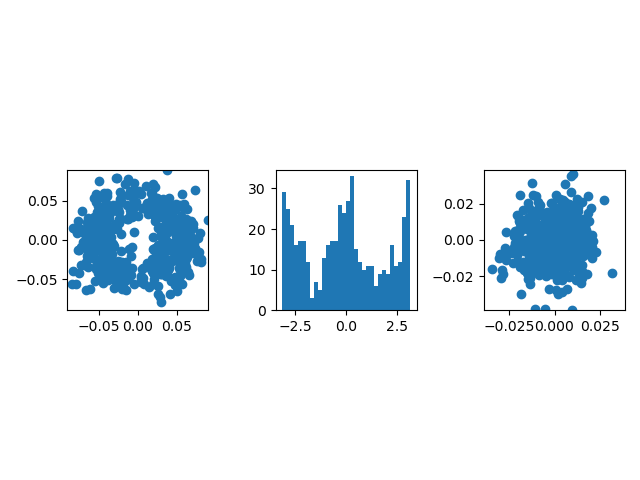
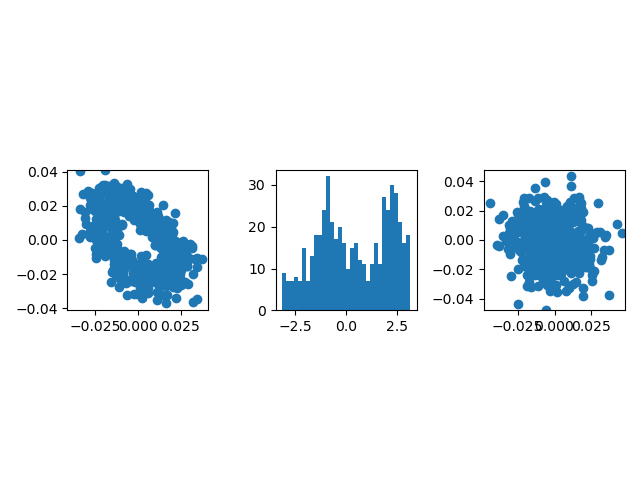
testing heuristic approach

diff --git a/geo_init_heuristic/geometric_initialization.py b/geo_init_heuristic/geometric_initialization.py
@@ -21,7 +21,13 @@ class GeometricInit3x3(Initializer):
         self.std_init = None
 
         self.antisym_dist = None
-        
+        self.var_rf2 = None
+
+        self.var_ra2 = None
+        self.var_ra = None
+
+        self.var_rs2 = None
+        self.var_rs = None
 
         #np.random.seed(self.seed)
         tf.random.set_seed(self.seed)
@@ -31,13 +37,16 @@ class GeometricInit3x3(Initializer):
 
         # Make distribution have unit variance
         dist = dist/tf.expand_dims(tf.math.sqrt(tfp.stats.variance(dist, -1)), -1)
-        
+        #print("unit var dist shape :", dist.shape)
         e_vals, e_vec = tf.linalg.eigh(cov)
         e_vals = tf.linalg.diag(e_vals)
+        #print("e_vals shape:", e_vals.shape)
+        #print("e_vec shape:", e_vec.shape)
 
         new_dist = e_vec @ e_vals**(1/2) @ dist
          
-        new_dist =  tf.reshape(new_dist, (1, 2, self.channels, self.filters))
+        #new_dist =  tf.reshape(new_dist, (-1, 2, self.channels, self.filters))
+
         #print(self.channels, self.filters)
         return new_dist
 
@@ -51,25 +60,18 @@ class GeometricInit3x3(Initializer):
         cov = tf.cast(tf.reshape(cov, (2,2)), tf.dtypes.float32)
         dist = self._color(self.antisym_dist, cov)
 
-        x = dist[:, 0, :, :]
-        y = dist[:, 1, :, :]
+        x = dist[:, 0, :]
+        y = dist[:, 1, :]
 
-        var_rf2 = 18*self.std_init**4
+        self.var_rf2 = 18*self.std_init**4
 
-        var_ra2 = tfp.stats.variance(x**2 + y**2, None)
-        var_ra = tfp.stats.variance(tf.math.sqrt(x**2 + y**2), None)
+        self.var_ra2 = tfp.stats.variance(x**2 + y**2, None)
+        self.var_ra = tfp.stats.variance(tf.math.sqrt(x**2 + y**2), None)
 
-        var_rs2 = var_rf2-var_ra2
-        var_rs = (var_rs2/6.0)**0.5 * (3-8/m.pi)
+        self.var_rs2 = self.var_rf2-self.var_ra2
+        self.var_rs = (self.var_rs2/6.0)**0.5 * (3-8/m.pi)
         #print(var_ra2, var_rs2)
-        return 6*var_x + (3-8/m.pi)*var_rs - 1/self.channels
-
-    '''def _secant_method(self, ra, ta, rs, rf,):
-
-
-        cov = tf.stack([var_x, self.rho*tf.math.sqrt(var_x*var_y),      
-                        self.rho*tf.math.sqrt(var_x*var_y),  var_y ])'''
-        
+        return 6*var_x + (3-8/m.pi)*self.var_rs - 1/self.channels
 
 
     def __call__(self, shape, dtype=None, **kwargs):
@@ -77,7 +79,7 @@ class GeometricInit3x3(Initializer):
         self.filters = int(shape[-1])
         self.k = shape[0]        
         self.n_avg = (self.channels+self.filters)/2.0
-        self.rho = 0.5
+        self.rho = 0.3
 
         self.std_init = tf.math.sqrt(2/(self.channels*self.k**2))  #He
 
@@ -85,22 +87,22 @@ class GeometricInit3x3(Initializer):
         p = tf.cast(self.rho, dtype=tf.float32)
 
 
-        #Anti-symetric 
-        t = tfp.distributions.Uniform(0, 2*np.pi).sample(sample_shape=(1,self.channels, self.filters))
-        r = tfp.distributions.Chi(8).sample(sample_shape=(1,self.channels, self.filters))
+        #Anti-symetric initialization
+        t = tfp.distributions.Uniform(0, 2*np.pi).sample(sample_shape=(1,self.channels, self.filters), seed=self.seed)
+        r = tfp.distributions.Chi(8).sample(sample_shape=(1,self.channels, self.filters), seed=self.seed)
         x = r*tf.math.cos(t)
         y = r*tf.math.sin(t) 
 
         self.antisym_dist  = tf.stack([x, y], axis=1)
-        self.antisym_dist =  tf.reshape(self.antisym_dist, (2, self.channels*self.filters))
+        #print("anti sym orig shape:", self.antisym_dist.shape)
 
-        var_x = tfp.math.find_root_chandrupatla(objective_fn=self._objective, low = [0], high=[1/self.channels])[0]
+        self.antisym_dist =  tf.reshape(self.antisym_dist, (-1, 2, self.channels*self.filters))
 
-        print("Var_x : ", var_x)
+        var_x = tfp.math.find_root_chandrupatla(objective_fn=self._objective, low = [0], high=[1/n])[0]
 
-        theta = 2*np.pi*tf.math.ceil(tfp.distributions.Uniform(low=0, high=360).sample(sample_shape=(self.filters), seed=self.seed) )/360
+        #print("Var_x : ", var_x)
 
-
+        theta = 2*np.pi*tf.math.ceil(tfp.distributions.Uniform(low=0, high=8).sample(sample_shape=(self.filters), seed=self.seed) )/8
 
 
         #theta = tfp.distributions.Uniform(low=0, high=2*m.pi).sample(sample_shape=(self.filters), seed=self.seed)    
@@ -110,27 +112,38 @@ class GeometricInit3x3(Initializer):
         
         
         
-        cov = tf.stack([var_x, self.rho*tf.math.sqrt(var_x*var_x),      
-                        self.rho*tf.math.sqrt(var_x*var_x),  var_x ])
+        cov = tf.stack([var_x,          self.rho*var_x,      
+                        self.rho*var_x,          var_x ])
         cov = tf.cast(tf.reshape(cov, (1, 2,2)), tf.dtypes.float32)
         cov = tf.matmul(tf.matmul(R, cov), R,  transpose_b=True)
-        print("Cov shape :", cov.shape)
+        #print("Cov shape :", cov.shape)
 
         self.antisym_dist  = tf.squeeze(tf.stack([x, y], axis=1), axis=0)
-        print("Dist shape :", self.antisym_dist.shape)
 
+        #print("Dist shape :", self.antisym_dist.shape)
+
+        self.antisym_dist  = tf.transpose(self.antisym_dist, perm=[2, 0, 1])
         self.antisym_dist = self._color(self.antisym_dist, cov)
-        
-        #cov = R @ cov @ tf.linalg.matrix_transpose(R)
-        '''cov = tf.matmul(tf.matmul(R, cov), R,  transpose_b=True)
+        #print("New Dist shape :", self.antisym_dist.shape)
+
+        self.antisym_dist  = tf.expand_dims(tf.transpose(self.antisym_dist, perm=[2, 0, 1]), axis=0)
 
 
-        z = tfp.distributions.MultivariateNormalTriL(loc = None,  
-                            scale_tril=tf.linalg.cholesky(cov), validate_args = False, allow_nan_stats=True)
-        z = z.sample(sample_shape=([1, self.channels]), seed = self.seed)
+        #print(np.rad2deg(-m.pi/4 + theta[0:5]))
 
+        '''fig = plt.figure()
+        ax = fig.add_subplot()
 
-        x, y = z[0,:,:,0], z[0,:,:,1]
+        x = self.antisym_dist[0, :, 0, 0]
+        y = self.antisym_dist[0, :, 0, 1]
+        plt.scatter(x,y)
+        ax.set_xlim(-0.1, 0.1)
+        ax.set_ylim(-0.1, 0.1)
+
+        ax.set_box_aspect(1)
+        plt.show()    '''   
+
+        x, y = self.antisym_dist[0,:,:,0], self.antisym_dist[0,:,:,1]
 
         ra = tf.math.sqrt(x**2 + y**2)
         theta = tf.expand_dims(tf.math.atan2(y, x), axis=0)
@@ -147,21 +160,22 @@ class GeometricInit3x3(Initializer):
         norm = tf.sqrt(tf.reduce_sum(tf.square(asym_filters), axis=[0,1]))  
         asym_filters = tf.math.multiply((asym_filters / norm) , ra)
 
+        
+        # Symetric initialization
 
-        # Symetric math
-        std_s = 1.58753*tf.math.sqrt(tf.math.sqrt(n**2 * (p**2 + 23.5836) * s_i**4 - 0.418214*(p**2 + 1))+0.136083*(p**2+1))/tf.math.sqrt(n*(p**(2)+23.5836))
-
+        std_s = (self.var_rs2/64)**(1/4)
+        print("Var rs2:", self.var_rs2)
         a = tf.random.normal([1, self.channels, self.filters], stddev = std_s, dtype=tf.dtypes.float32, seed = self.seed)
         b = tf.random.normal([1, self.channels, self.filters], stddev = std_s,  dtype=tf.dtypes.float32, seed = self.seed)
-        c = tf.random.normal([1, self.channels, self.filters], stddev = s_i,  dtype=tf.dtypes.float32, seed = self.seed)
+        c = tf.random.normal([1, self.channels, self.filters], stddev = std_s,  dtype=tf.dtypes.float32, seed = self.seed)
 
-        sym_filters = tf.stack([tf.concat([a,b, a],  axis=0), 
+        sym_filters = tf.stack([tf.concat([a, b, a],  axis=0), 
                                 tf.concat([b, c, b], axis=0),
-                                tf.concat([a, b, a], axis=0)])'''
+                                tf.concat([a, b, a], axis=0)])
 
         #print('stds : ', s_i, s_i_up, s_i_low, std_a, std_s)
 
-        #return (asym_filters) #+ sym_filters ) 
+        return (asym_filters +   sym_filters)
 
 
     def get_config(self):  # To support serialization
@@ -215,7 +229,6 @@ if __name__ == "__main__":
             
             f = filters[:,:,:, filter]
             f = np.array(f[:,:, channel])  
-            print(f)
             f_vals.append(f)
             theta = getSobelAngle(f)
             theta = theta[theta.shape[0]//2, theta.shape[1]//2]

diff --git a/experiments/batchnorm_cnn_cifar100.py b/experiments/batchnorm_cnn_cifar100.py
@@ -9,10 +9,13 @@ if __name__ == '__main__':
 
     sys.path.append("..")    
 
-    from .models.batch_norm import batchnorm_cnn
+    from .models.batch_norm import batchnorm_cnn as cnn
+    #from .models.no_batch_norm import no_batchnorm_cnn as cnn
+
     #from geo_init.geometric_initialization_relu import GeometricInit3x3Relu
     #from geo_init_matthew.geometric_initialization import GeometricInit3x3 as gim
-    from geo_init_matthew.geometric_initialization_with_chi_mag import GeometricInit3x3 as gim
+    #from geo_init_matthew.geometric_initialization_with_chi_mag import GeometricInit3x3 as gim
+    from geo_init_heuristic.geometric_initialization import GeometricInit3x3 as gim
 
     #from geo_init_liam.geometric_initialization import GeometricInit3x3 as gim
     from .callbacks.filter_layout_logger import FLL
@@ -21,7 +24,7 @@ if __name__ == '__main__':
     print("Num GPUs Available: ", len(tf.config.list_physical_devices('GPU')))
     print(tf.__version__ )
 
-    model = batchnorm_cnn(k_init =  gim)
+    model = cnn(k_init=gim)
 
     num_classes = 100
     input_shape = (32, 32, 3)
@@ -48,22 +51,22 @@ if __name__ == '__main__':
     import wandb
     from wandb.keras import WandbCallback
 
-    wandb.init(project="new_approach")
-    wandb.run.name = '8_layer_cnn_cifar100_Matthew_chi_mag'
+    run = wandb.init(project="new_approach", entity="geometric_init")
+    wandb.run.name = '8_layer_cnn_cifar100_Heuristic_batchnorm_no_dropout_p=0.3_multiLR'
     wandb.config = {
     "learning_rate": '[1e-6, 1e-4]',
     'batch_size' : '64',
     'epochs' : '10',
-    "initialization": "geo init m",
-    "model": '8_layer_BatchNorm Liam'
+    "initialization": 'geo heuristic init l',
+    "model": '8_layer_BatchNorm_Heuristic_Liam'
     }
 
     optimizers = [
-    tf.keras.optimizers.RMSprop(learning_rate=1e-4),
-    tf.keras.optimizers.RMSprop(learning_rate=1e-4)
+    tf.keras.optimizers.RMSprop(learning_rate=1e-6),
+    tf.keras.optimizers.RMSprop(learning_rate=1e-3)
     ]
-    '''optimizers_and_layers = [(optimizers[0], model.layers[:-6]), (optimizers[1], model.layers[-6:])]
-    optimizer = tfa.optimizers.MultiOptimizer(optimizers_and_layers)'''
+    optimizers_and_layers = [(optimizers[0], model.layers[:-6]), (optimizers[1], model.layers[-6:])]
+    optimizer = tfa.optimizers.MultiOptimizer(optimizers_and_layers)
     
     optimizer = tf.keras.optimizers.RMSprop(learning_rate=1e-4)
 
@@ -78,13 +81,16 @@ if __name__ == '__main__':
     batch_size = 64
     epochs = 10
 
-    layout_callback = FLL(wandb=wandb, model=model, layer_filter_dict={3: [1, 10, 100], 7: [1, 10, 100], 10: [1, 10, 100], 15: [1, 10, 100]})
+    #layout_callback = FLL(wandb=wandb, model=model, layer_filter_dict={3: [1, 10, 100], 7: [1, 10, 100], 10: [1, 10, 100], 15: [1, 10, 100]})
     history = model.fit(X_train, 
                         y_train, 
                         batch_size=batch_size, 
                         epochs=epochs, 
                         validation_data=(X_validation, y_validation),
-                        callbacks=[WandbCallback(), layout_callback]) 
+                        callbacks=[WandbCallback()])#, layout_callback]) 
+    
+    wandb.finish()
+
     '''log_gradients   = (True), 
     log_weights     = (True),
     training_data   = (X_train, y_train),

diff --git a/experiments/models/batch_norm.py b/experiments/models/batch_norm.py
@@ -21,7 +21,7 @@ def batchnorm_cnn(k_init = 'he_normal'):
     model.add(Conv2D(256,(3,3),padding='same', kernel_initializer = k_init))
     model.add(Activation('relu'))
     model.add(MaxPool2D(pool_size=(2,2)))
-    model.add(Dropout(0.2))
+    #model.add(Dropout(0.2))
     
     model.add(Conv2D(512,(3,3),padding='same', kernel_initializer = k_init))
     model.add(BatchNormalization())
@@ -30,7 +30,7 @@ def batchnorm_cnn(k_init = 'he_normal'):
     model.add(BatchNormalization())
     model.add(Activation('relu'))
     model.add(MaxPool2D(pool_size=(2,2)))
-    model.add(Dropout(0.2))
+    #model.add(Dropout(0.2))
 
     model.add(Conv2D(512,(3,3),padding='same', kernel_initializer = k_init))
     model.add(BatchNormalization())
@@ -39,7 +39,7 @@ def batchnorm_cnn(k_init = 'he_normal'):
     model.add(BatchNormalization())
     model.add(Activation('relu'))
     model.add(MaxPool2D(pool_size=(2,2)))
-    model.add(Dropout(0.2))
+    #model.add(Dropout(0.2))
 
     model.add(Conv2D(512,(3,3),padding='same', kernel_initializer = k_init))
     model.add(BatchNormalization())
@@ -48,12 +48,12 @@ def batchnorm_cnn(k_init = 'he_normal'):
     model.add(BatchNormalization())
     model.add(Activation('relu'))
     model.add(MaxPool2D(pool_size=(2,2)))
-    model.add(Dropout(0.2))
+    #model.add(Dropout(0.2))
 
     model.add(Flatten())
     model.add(Dense(1024, kernel_initializer=HeNormal(seed=5)))
     model.add(Activation('relu'))
-    model.add(Dropout(0.2))
+    #model.add(Dropout(0.2))
     model.add(BatchNormalization(momentum=0.95, 
             epsilon=0.005,
             beta_initializer=RandomNormal(mean=0.0, stddev=0.05), 

diff --git a/experiments/callbacks/filter_layout_logger.py b/experiments/callbacks/filter_layout_logger.py
@@ -5,6 +5,7 @@ import matplotlib.pyplot as plt
 import numpy as np
 matplotlib.use('TKAgg')
 import tensorflow as tf
+import time
 
 class FLL(tf.keras.callbacks.Callback):
 
@@ -112,5 +113,6 @@ class FLL(tf.keras.callbacks.Callback):
                 plt.savefig('Layer_{}_Filter_{}.{}'.format(str(layer), str(filter), self.ft))
                 print('Saving Layer_{}_Filter_{}.{}'.format(str(layer), str(filter), self.ft))
                 plt.close()
+                time.sleep(0.1)
                 self.wandb.log({'Layer {}, Filter {}'.format(str(layer), str(filter)): self.wandb.Image('Layer_{}_Filter_{}.{}'.format(str(layer), str(filter),self.ft))})
 
